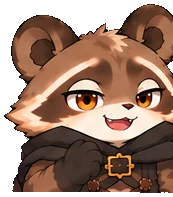
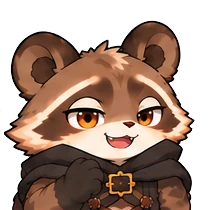
香香、默默的表情頭換成大爺切好的版本，嬌嬌疑惑換橘眼（大爺 10-03）
默默的被抓包和裝無辜重複，只留一張（被抓包）。

Claude-Session: https://claude.ai/code/session_01V3XhJSRuqZvKMCXecCUFBZ

diff --git a/docs/現況.md b/docs/現況.md
@@ -141,8 +141,8 @@
   - 大爺、卡姆的 8 張臉沒有標名字，檔名是香香看圖取的（不爽、微笑、大笑、咬牙、難過、驚訝、奸笑、害羞），**暫定**
   - **臉已對好（10-02）**：每張臉都跟無臉底圖一樣大（大爺 1100×1000、卡姆 880×1100），兩張 `<img>` 疊在同一個位置就對上，不用另外算座標。對法：照有臉的原圖量瞳孔位置，每張臉照瞳孔移過去，大小、角度用同一組（大爺縮 0.80 轉 −9°、卡姆縮 0.48 轉 −6°）；閉眼的用眼線位置。**大爺的嘴另外往下移 27px**（表情表上嘴離眼睛比立繪近，不移的話牙齒會壓在鬍子上）
   - 小瑕疵：卡姆的眉毛畫在瀏海上面（原圖眉毛被瀏海蓋住）；大爺害羞的腮紅疊在鏡片上
-  - 素材本身的問題：嬌嬌「疑惑」是藍眼（其他都橘眼）；哥布林、商人畫風跟其他人不同（哥布林平塗美式卡通、商人偏寫實不是 Q 版）；香香穿綠斗篷沒有鏈甲衫（要改圖還是改設定待定）
-  - 四小隻的頭：大爺 10-03 自己切成一顆一張（210×210、透明背景），玲玲、嬌嬌已換；香香、默默還是舊的切法（少數幾格有隔壁的耳朵），等大爺給
+  - 素材本身的問題：哥布林、商人畫風跟其他人不同（哥布林平塗美式卡通、商人偏寫實不是 Q 版）；香香穿綠斗篷沒有鏈甲衫（要改圖還是改設定待定）
+  - 四小隻的頭：大爺 10-03 自己切成一顆一張（210×210、透明背景），四隻都換好了。玲玲、嬌嬌、香香各 8 張；默默 7 張（被抓包和裝無辜重複，只留一張，檔名「被抓包」）。嬌嬌疑惑的藍眼已改成橘眼
 
 ## 七、已知問題（原本就有，沒修，大爺還沒說要不要處理）
 
